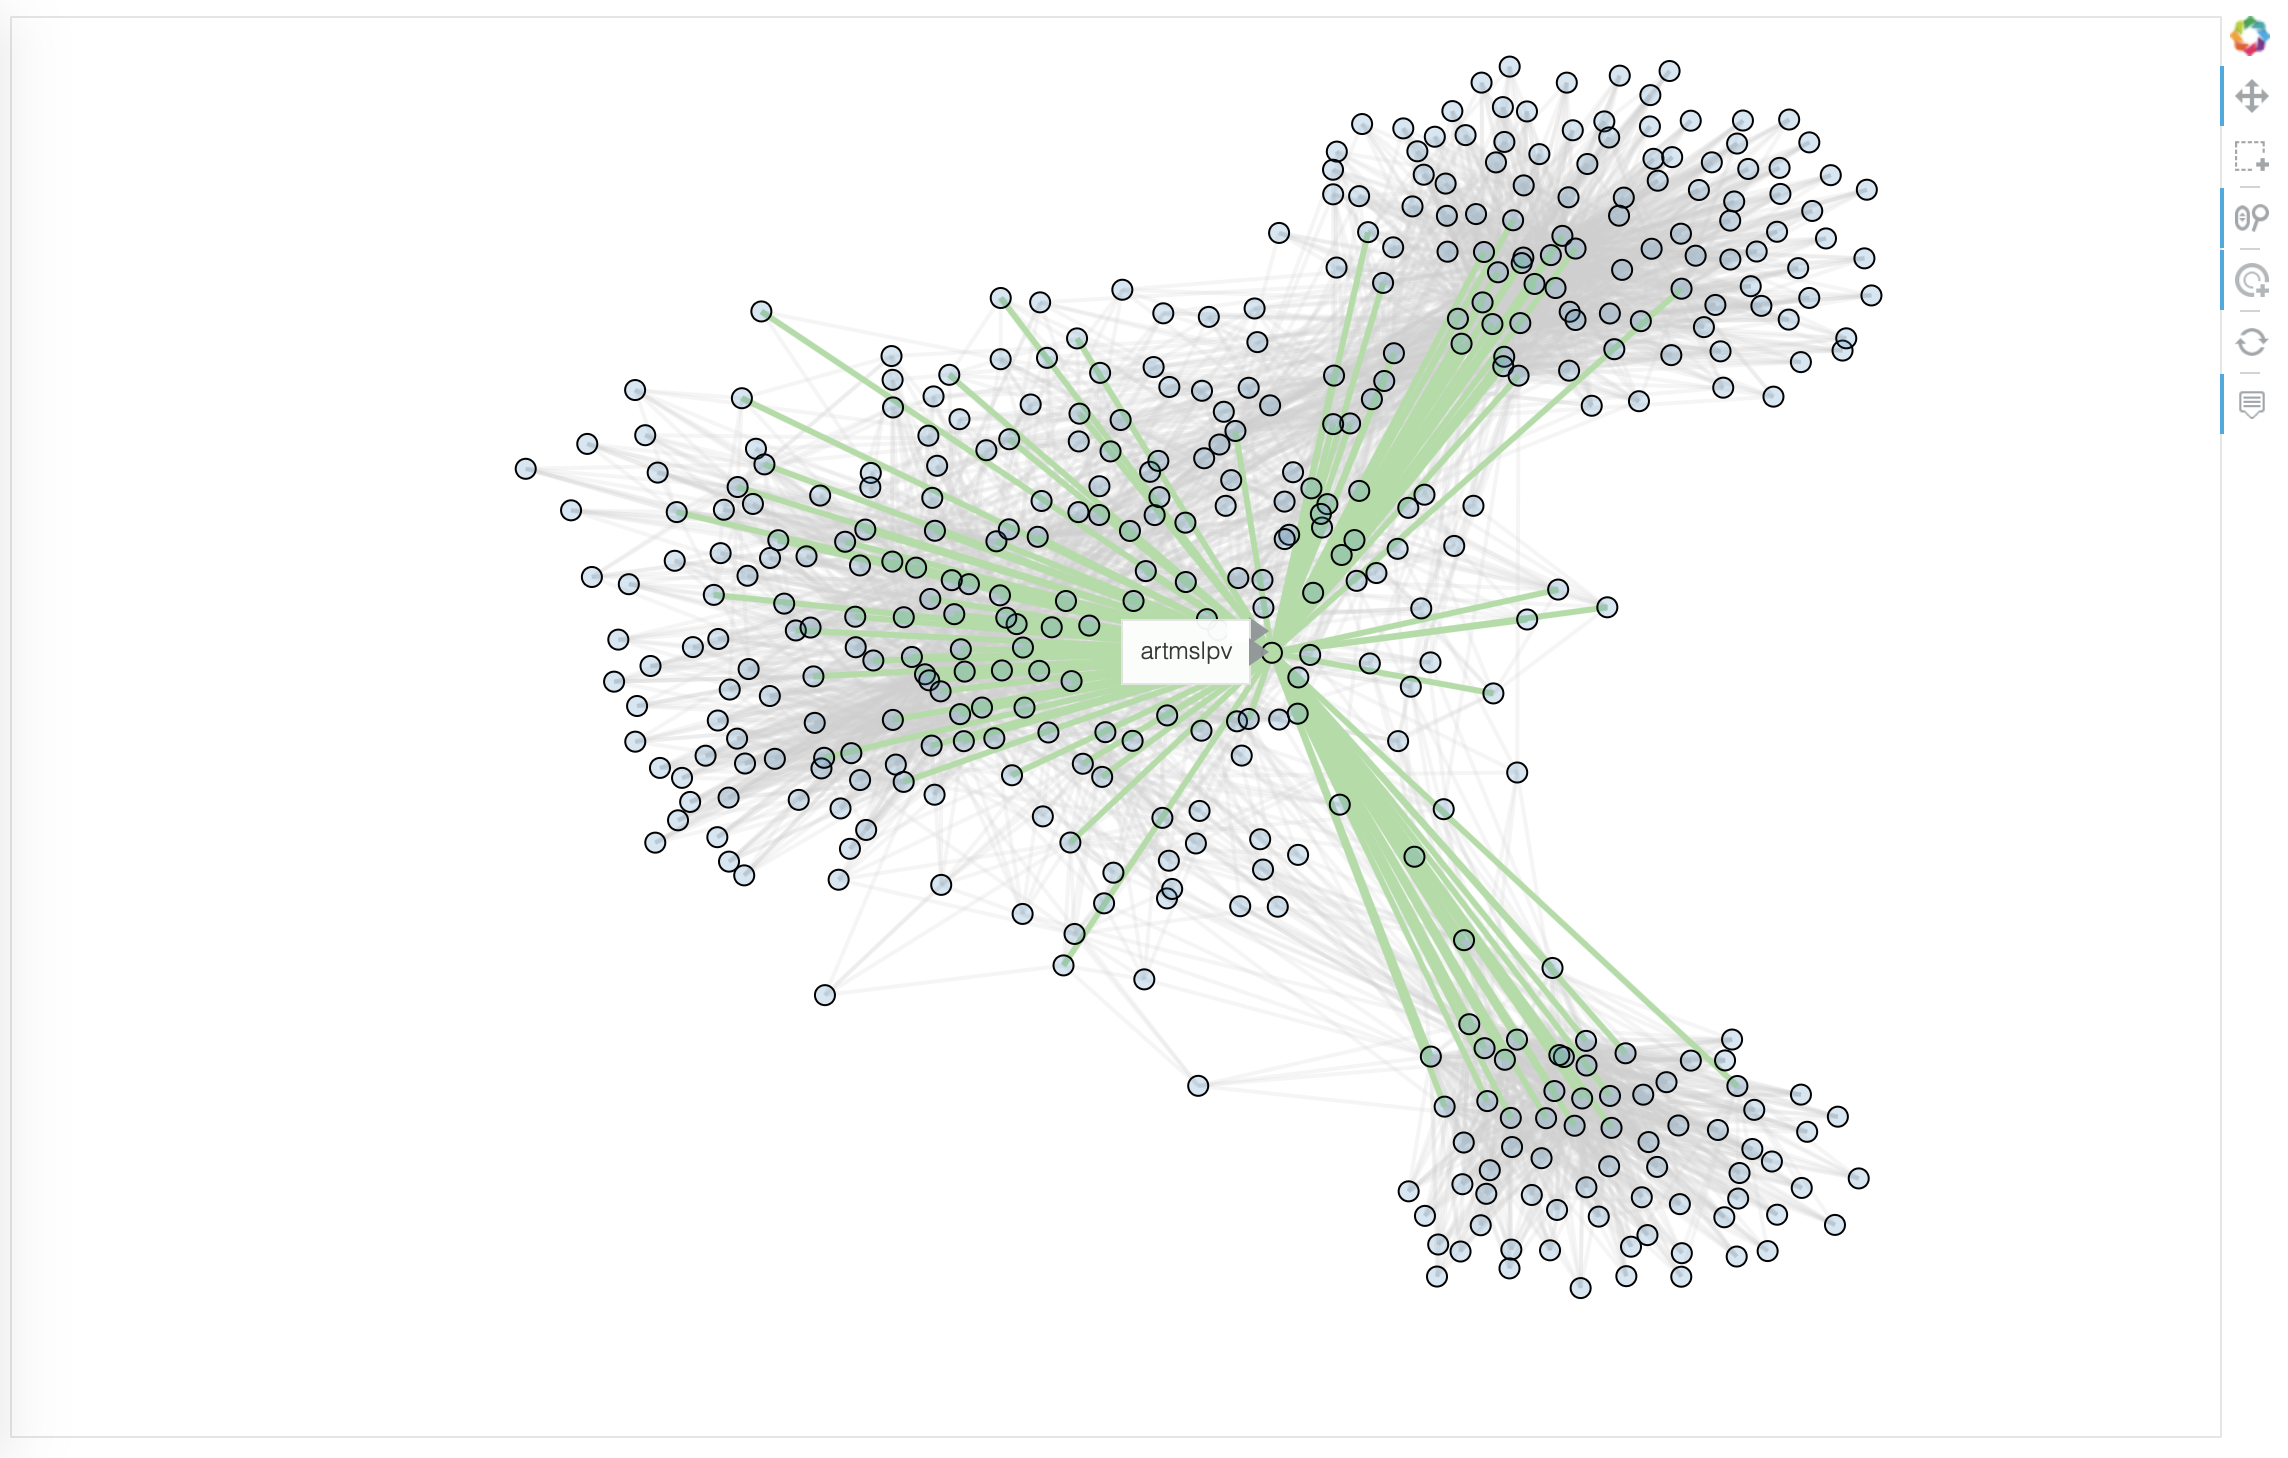
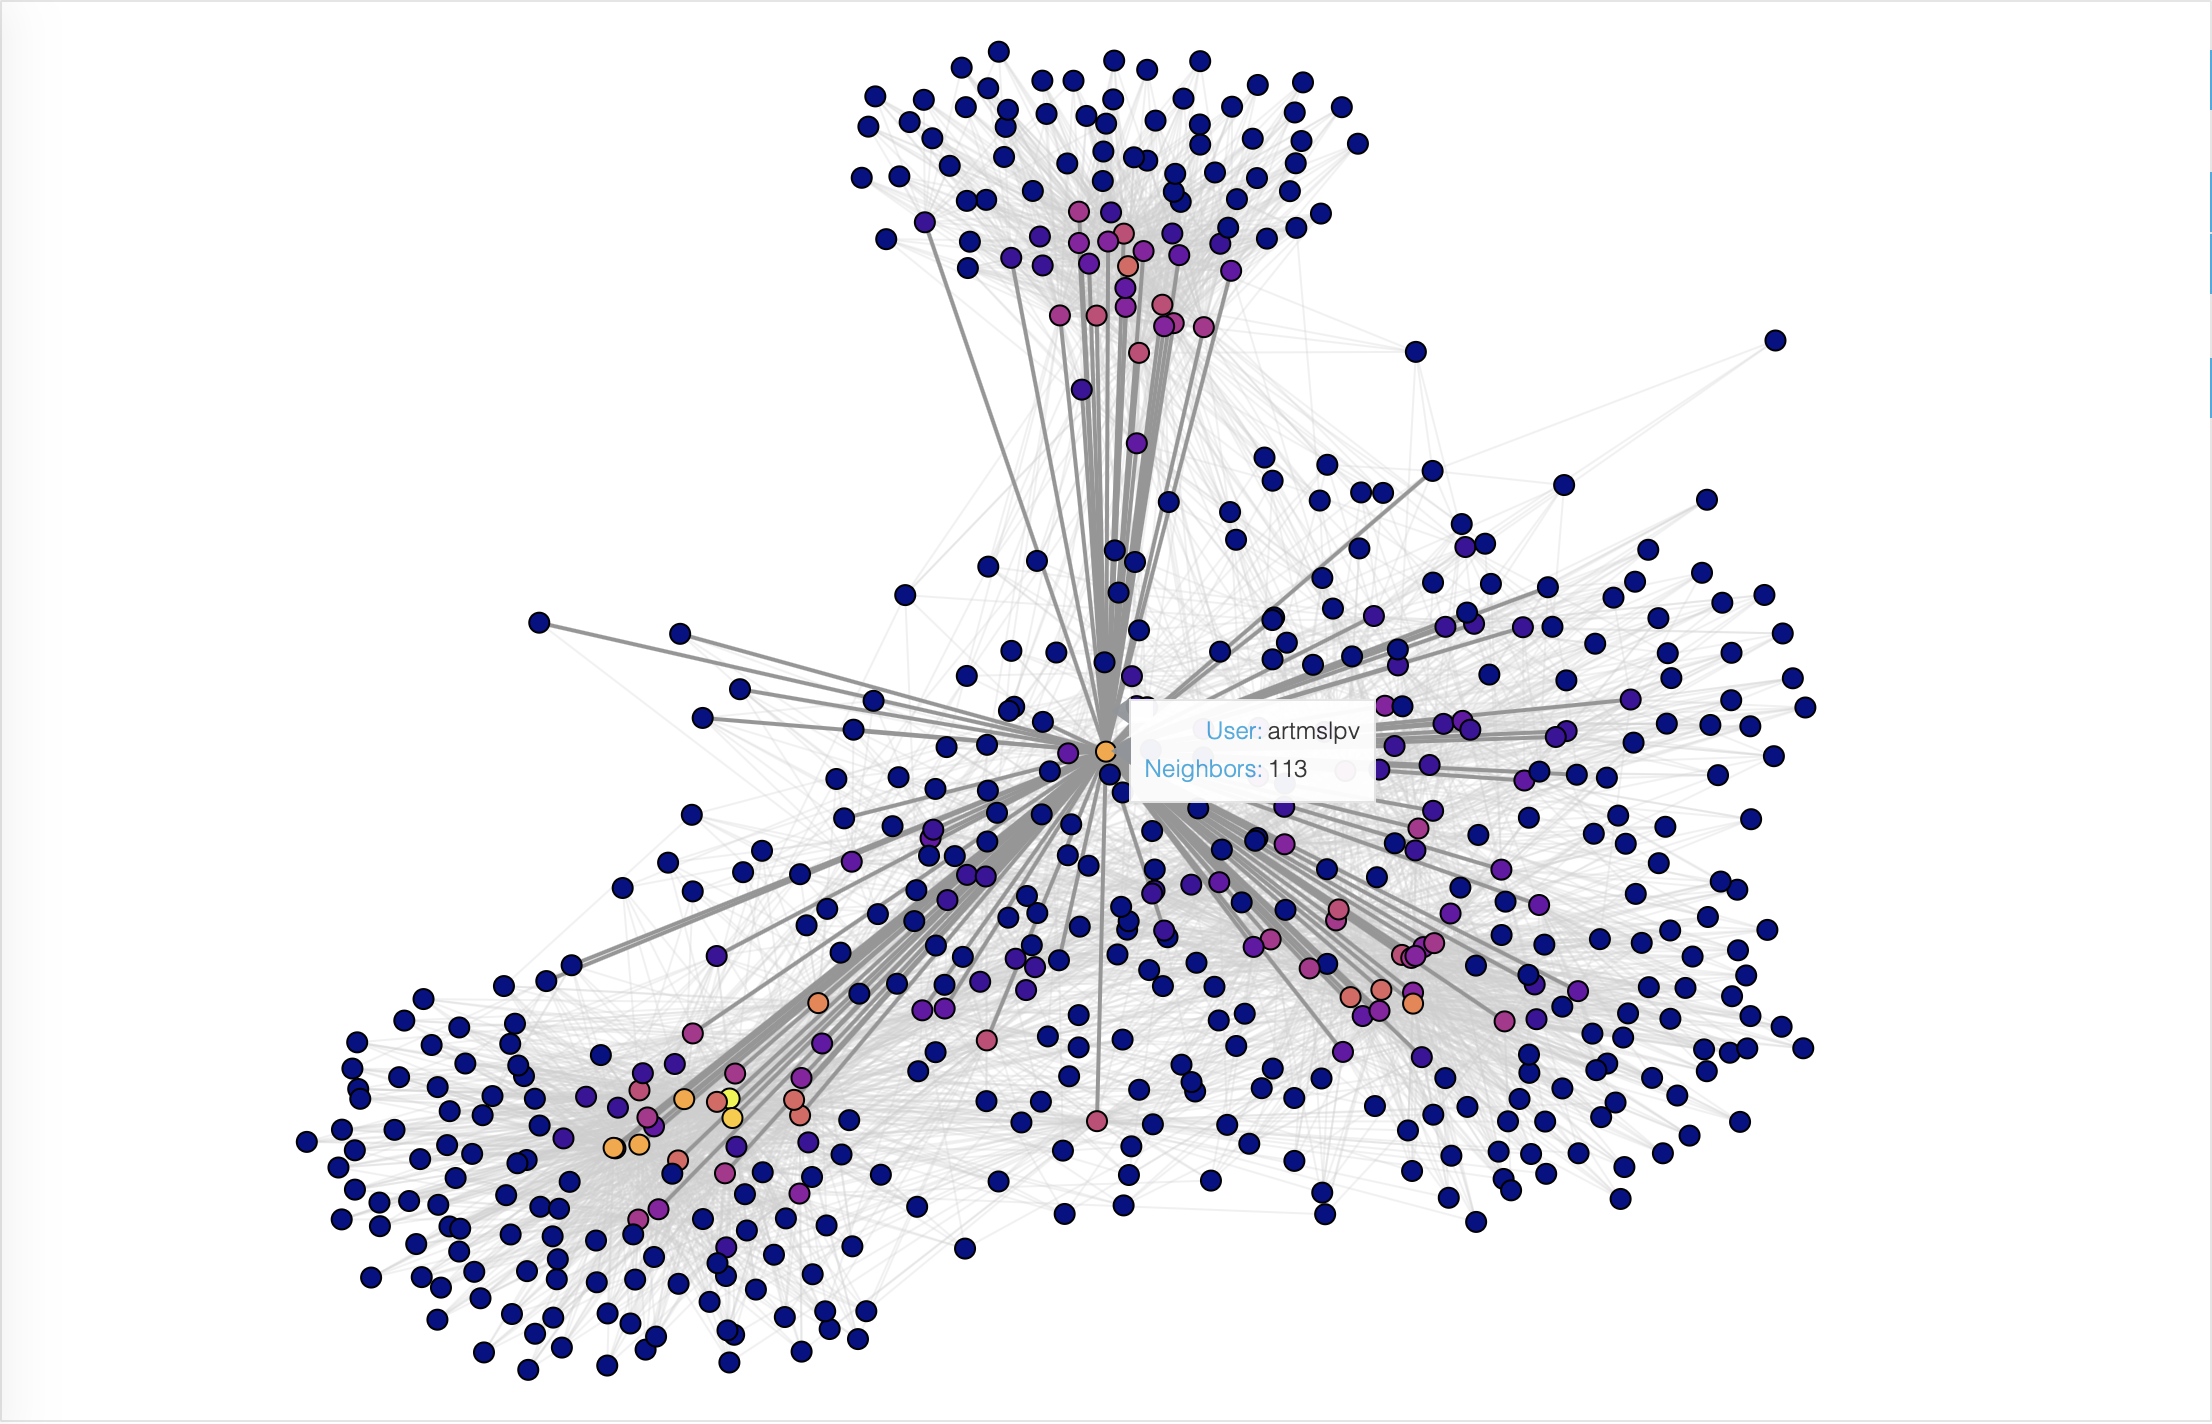
added new image

diff --git a/analyse_json.py b/analyse_json.py
@@ -1,17 +1,17 @@
 import json
+
 import networkx as nx
-from bokeh.io import output_file, show
+
+from bokeh.io import show
 from bokeh.models import Plot, Range1d, MultiLine, Circle, HoverTool, TapTool, BoxSelectTool, PanTool, WheelZoomTool, ResetTool
 from bokeh.models.graphs import NodesAndLinkedEdges
-from bokeh.palettes import Plasma11
-from bokeh.palettes import Greys4
+from bokeh.palettes import Plasma11, Greys4
 from bokeh.plotting import from_networkx
 from bokeh.transform import linear_cmap
-from bokeh.models import ColumnDataSource
 
 class Visualise():
 	def __init__(self):
-		return None
+		pass
 
 	def sort_by_val_len(self, u_dict):
 		sorted_lst = sorted(u_dict.items(), key=lambda item : len(item[1]), reverse=True)
@@ -52,12 +52,12 @@ class Visualise():
 			edge_list.append(len(list(graph.neighbors(node))))
 		return edge_list
 
-	def network_total_following(self, user_dict):
+	def network_total_following(self, user_dict, n_neighbors=5):
 		graph = nx.Graph()
 		self.add_nodes(graph, user_dict)
 		self.add_edges(graph, user_dict)
 		for node in list(graph.nodes()):
-			if len(list(graph.neighbors(node))) < 5:
+			if len(list(graph.neighbors(node))) < n_neighbors:
 				graph.remove_node(node)
 		plot = Plot(
 			plot_width=1140,
@@ -73,12 +73,10 @@ class Visualise():
 			PanTool(),
 			WheelZoomTool(),
 			ResetTool())
-		graph_render = from_networkx(graph, nx.spring_layout, scale=1.8, center=(0,0))
+		graph_render = from_networkx(graph, nx.spring_layout, scale=2.5, center=(0,0))
 		graph_render.node_renderer.data_source.data['name'] = list(graph.nodes())
 		list_edges = self.get_list_of_edges(graph)
 		graph_render.node_renderer.data_source.data['neighbors'] = list_edges
-		print(min(list_edges))
-		print(max(list_edges))
 		mapper = linear_cmap('neighbors', palette=Plasma11, low=min(list_edges), high=max(list_edges))
 		graph_render.node_renderer.glyph = Circle(
 			size=10,
@@ -107,5 +105,5 @@ class Visualise():
 with open('user_dict.json', 'r') as fd:
 	user_dict = json.load(fd)
 bar = Visualise()
-bar.network_total_following(user_dict)
+bar.network_total_following(user_dict, n_neighbors=6) # takes user dictionary, optional args: n_neigbors
 # bar.bar_total_following(user_dict, sort=False, disp_avg=False) # takes user dictionary, optional args: sort, diplay_average
